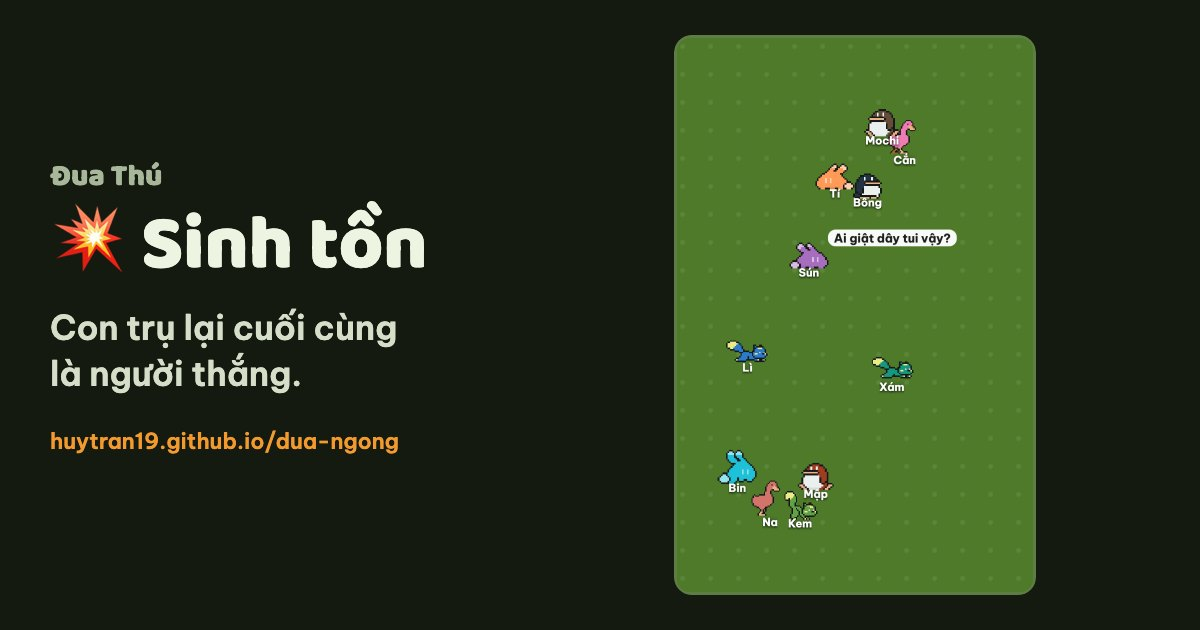
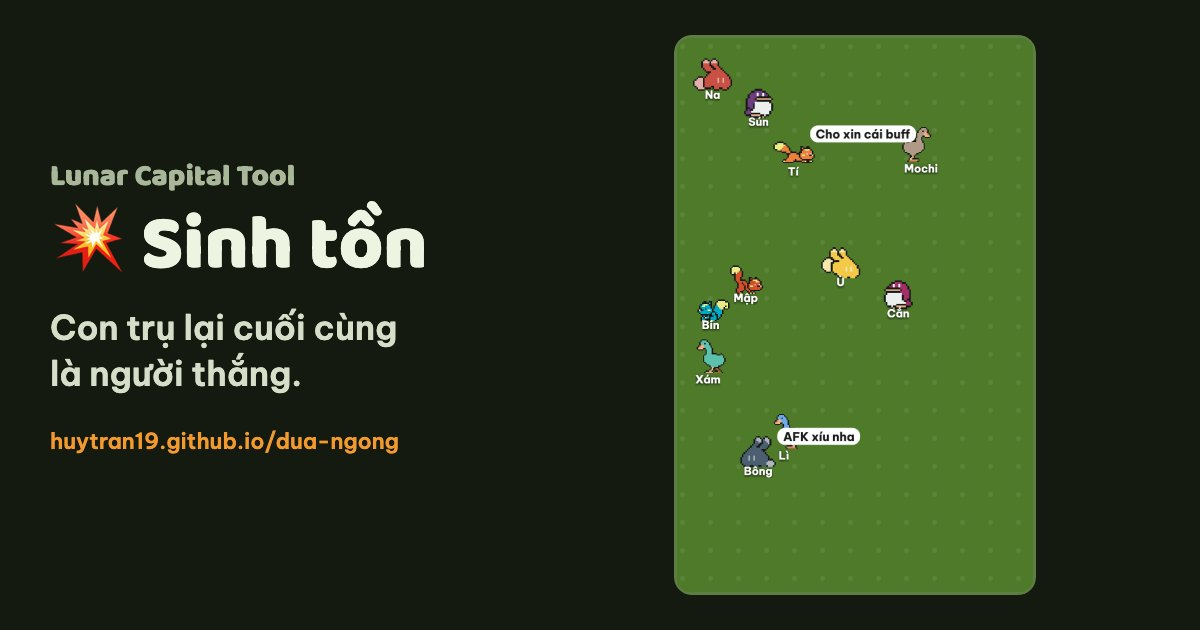
Đổi tên thành Lunar Capital Tool, Giveaway thành Đua Ngỗng, Tranh Pass thành Vòng quay may mắn

diff --git a/index.html b/index.html
@@ -3,10 +3,10 @@
 <head>
 <meta charset="utf-8">
 <meta name="viewport" content="width=device-width, initial-scale=1, viewport-fit=cover">
-<title>Đua Ngỗng</title>
-<meta name="description" content="Game bốc thăm cho guild: Giveaway, Chia team, Sinh tồn, Trứng nở, Tranh Pass. Mở là chơi, không cần cài.">
-<meta property="og:title" content="Đua Thú: bốc thăm cho guild">
-<meta property="og:description" content="Giveaway, Chia team, Sinh tồn, Trứng nở, Tranh Pass. Dán danh sách tên, bấm một nút là có kết quả.">
+<title>Lunar Capital Tool</title>
+<meta name="description" content="Tool bốc thăm của Lunar Capital: Đua Ngỗng, Vòng quay may mắn, Chia team, Sinh tồn, Trứng nở. Mở là chơi, không cần cài.">
+<meta property="og:title" content="Lunar Capital Tool: bốc thăm cho guild">
+<meta property="og:description" content="Đua Ngỗng, Vòng quay may mắn, Chia team, Sinh tồn, Trứng nở. Dán danh sách tên, bấm một nút là có kết quả.">
 <meta property="og:image" content="https://huytran19.github.io/dua-ngong/og/home.jpg">
 <meta property="og:url" content="https://huytran19.github.io/dua-ngong/">
 <meta name="twitter:card" content="summary_large_image">
@@ -92,7 +92,7 @@ select{font:inherit;font-size:15px;padding:9px 6px;border:2px solid var(--line);
 .crown{position:absolute;top:-8px;left:40%;font-size:14px;display:none;z-index:2}
 .goose.lead .crown{display:block}
 
-/* Giveaway track */
+/* Đua Ngỗng (mode give) */
 .mini{position:relative;height:22px;background:var(--card);border:2px solid var(--line);border-radius:999px}
 .mini i{position:absolute;top:50%;width:11px;height:11px;border-radius:50%;margin:-5.5px 0 0 -5.5px;border:1.5px solid #1b1b1b}
 .mini b{position:absolute;right:6px;top:50%;transform:translateY(-50%);font-size:13px}
@@ -131,7 +131,7 @@ select{font:inherit;font-size:15px;padding:9px 6px;border:2px solid var(--line);
 .team ol{margin:0;padding-left:20px;font-size:14px;line-height:1.6;word-break:break-word}
 .team ol:empty::after{content:"Chưa có ai";color:var(--muted);margin-left:-20px}
 
-/* Giveaway result */
+/* Màn kết quả */
 .winner{background:var(--card);border:3px solid var(--frame);border-radius:20px;padding:22px 18px 18px;text-align:center;display:flex;flex-direction:column;align-items:center;gap:6px}
 .winner .g{position:relative;width:160px;height:128px;animation:bounce 1s ease-in-out infinite alternate}
 .winner .g .spr{width:100%;height:100%}
@@ -151,7 +151,7 @@ select{font:inherit;font-size:15px;padding:9px 6px;border:2px solid var(--line);
 
 /* Mode picker */
 .modes{display:grid;grid-template-columns:repeat(3,1fr);gap:6px}
-.modes button{appearance:none;border:2px solid var(--line);background:var(--card);border-radius:14px;padding:9px 4px 8px;font-weight:700;font-size:13px;line-height:1.2;display:flex;flex-direction:column;align-items:center;gap:3px}
+.modes button{text-wrap:balance;appearance:none;border:2px solid var(--line);background:var(--card);border-radius:14px;padding:9px 4px 8px;font-weight:700;font-size:13px;line-height:1.2;display:flex;flex-direction:column;align-items:center;gap:3px}
 .modes button span{font-size:22px;line-height:1}
 .modes button[aria-pressed="true"]{background:var(--btn);color:var(--btn-ink);border-color:var(--btn)}
 .gate.bottom{top:auto;bottom:10px;border:5px solid #8B5A2B;border-top:0;border-radius:0 0 10px 10px}
@@ -253,7 +253,7 @@ textarea.flash{animation:taflash .5s ease-out}
 .top-left{display:flex;align-items:center;gap:10px;min-width:0}
 #backBtn{font-size:22px;font-weight:700;line-height:1}
 .in-game #logoGoose{display:none} /* có nút ← thì bỏ hình logo cho tên dài khỏi xuống dòng */
-#appTitle{overflow:hidden;text-overflow:ellipsis}
+#appTitle{overflow:hidden;text-overflow:ellipsis;font-size:clamp(16px,4.6vw,22px)}
 .hist-title{margin:0;font-family:"Baloo 2",sans-serif;font-weight:800;font-size:30px}
 .hist{display:flex;flex-direction:column;gap:8px}
 .hist-item{background:var(--card);border:1px solid var(--line);border-radius:14px;padding:10px 12px;display:flex;flex-direction:column;gap:3px}
@@ -269,17 +269,17 @@ textarea.flash{animation:taflash .5s ease-out}
 <main class="app">
   <div class="top">
     <div class="top-left"><button class="icon-btn" id="backBtn" aria-label="Quay lại" hidden>←</button>
-      <div class="logo"><span id="logoGoose"></span><span id="appTitle">Đua Ngỗng</span></div></div>
+      <div class="logo"><span id="logoGoose"></span><span id="appTitle">Lunar Capital Tool</span></div></div>
     <div class="top-btns"><button class="icon-btn" id="themeBtn" aria-label="Chuyển sang giao diện sáng">☀</button><button class="icon-btn" id="histBtn" aria-label="Lịch sử các ván">📜</button><button class="icon-btn" id="mute" aria-label="Tắt tiếng">🔊</button></div>
   </div>
 
   <section id="screen-setup" class="stack">
     <div class="modes" role="group" aria-label="Chế độ">
-      <button data-mode="give"><span>🎁</span>Giveaway</button>
+      <button data-mode="give"><span>🎁</span>Đua Ngỗng</button>
+      <button data-mode="pass"><span>🎟</span>Vòng quay may mắn</button>
       <button data-mode="team"><span>⚔</span>Chia team</button>
       <button data-mode="survive"><span>💥</span>Sinh tồn</button>
       <button data-mode="egg"><span>🥚</span>Trứng nở</button>
-      <button data-mode="pass"><span>🎟</span>Tranh Pass</button>
     </div>
     <h1 id="headline"></h1>
     <p class="lede" id="lede"></p>
@@ -635,7 +635,7 @@ textarea.flash{animation:taflash .5s ease-out}
   }
 
   /* ---------- Setup ---------- */
-  // Tên gọi thay theo đàn thú đang chọn: Đua Ngỗng, Đua Thỏ, ... hoặc Đua Thú khi trộn
+  // Tên gọi thay theo đàn thú đang chọn (ngỗng, thỏ, ... hoặc thú khi trộn), dùng trong lời dẫn và nút
   const NOUN={goose:"ngỗng",bunny:"thỏ",squirrel:"sóc",penguin:"cánh cụt",mix:"thú"};
   const noun=()=>NOUN[herd]||"thú";
   const Noun=()=>noun().split(" ").map(w=>w[0].toUpperCase()+w.slice(1)).join(" ");
@@ -751,8 +751,7 @@ textarea.flash{animation:taflash .5s ease-out}
     else put(herd);
   }
   function applyText(){
-    const info=MODE_INFO[mode], title=`Đua ${Noun()}`;
-    $("appTitle").textContent=title; document.title=title;
+    const info=MODE_INFO[mode];
     $("headline").textContent=info.h(); $("lede").textContent=info.lede(); $("go").textContent=info.go();
     $("numLabel").textContent=`Hiện số trên ${noun()}`;
   }
@@ -881,7 +880,7 @@ textarea.flash{animation:taflash .5s ease-out}
 
   /* ---------- Lịch sử các ván ---------- */
   const HIST_KEY="dua-ngong-history", HIST_MAX=100;
-  const MODE_LABEL={give:"🎁 Giveaway",team:"⚔ Chia team",survive:"💥 Sinh tồn",egg:"🥚 Trứng nở",pass:"🎟 Tranh Pass"};
+  const MODE_LABEL={give:"🎁 Đua Ngỗng",team:"⚔ Chia team",survive:"💥 Sinh tồn",egg:"🥚 Trứng nở",pass:"🎟 Vòng quay may mắn"};
   function loadHistory(){try{const h=JSON.parse(store.get(HIST_KEY,"[]"));return Array.isArray(h)?h:[];}catch(e){return [];}}
   function addHistory(e){const h=loadHistory();h.unshift({t:Date.now(),...e});store.set(HIST_KEY,JSON.stringify(h.slice(0,HIST_MAX)));}
   const fmtTime=t=>{const d=new Date(t),p=x=>String(x).padStart(2,"0");return `${p(d.getHours())}:${p(d.getMinutes())} ${p(d.getDate())}/${p(d.getMonth()+1)}/${d.getFullYear()}`;};
@@ -952,7 +951,7 @@ textarea.flash{animation:taflash .5s ease-out}
   });
   const rankCopy=(title,order)=>title+"\n\nThứ tự:\n"+order.map((r,i)=>`${i+1}. ${r.name}`).join("\n");
 
-  /* ---------- Mode: Giveaway ---------- */
+  /* ---------- Mode: Đua Ngỗng (give) ---------- */
   let G=null;
   function startGive(racers){
     const my=++session; show(scr.race);
@@ -1412,7 +1411,7 @@ textarea.flash{animation:taflash .5s ease-out}
     }
   }
 
-  /* ---------- Mode: Tranh Pass ---------- */
+  /* ---------- Mode: Vòng quay may mắn (pass) ---------- */
   // Lệnh bài vẽ riêng (hình gỗ có móc treo, huy hiệu vàng đơn giản)
   const TOKEN_SVG=`<svg viewBox="0 0 100 140" aria-hidden="true">
     <circle cx="50" cy="10" r="7" fill="none" stroke="#6B4220" stroke-width="4"/>

diff --git a/giveaway/index.html b/giveaway/index.html
@@ -2,17 +2,17 @@
 <html lang="vi">
 <head>
 <meta charset="utf-8">
-<title>🎁 Giveaway · Đua Thú</title>
+<title>🎁 Đua Ngỗng · Lunar Capital Tool</title>
 <!-- Link ngắn cho từng mode: có thẻ xem trước riêng khi dán vào Discord, rồi chuyển vào game -->
 <meta name="description" content="Mỗi người một con ngỗng, con nào về đích trước thì người đó trúng. Camera bám con dẫn đầu tới vạch đích.">
-<meta property="og:title" content="🎁 Giveaway · Đua Thú">
+<meta property="og:title" content="🎁 Đua Ngỗng · Lunar Capital Tool">
 <meta property="og:description" content="Mỗi người một con ngỗng, con nào về đích trước thì người đó trúng. Camera bám con dẫn đầu tới vạch đích.">
 <meta property="og:image" content="https://huytran19.github.io/dua-ngong/og/give.jpg">
 <meta property="og:url" content="https://huytran19.github.io/dua-ngong/giveaway/">
 <meta name="twitter:card" content="summary_large_image">
-<meta name="theme-color" content="#8CC152">
+<meta name="theme-color" content="#141A10">
 <meta http-equiv="refresh" content="0;url=../?mode=give">
 <script>location.replace("../?mode=give"+location.hash);</script>
 </head>
-<body><a href="../?mode=give">Vào 🎁 Giveaway</a></body>
+<body><a href="../?mode=give">Vào 🎁 Đua Ngỗng</a></body>
 </html>

diff --git a/chia-team/index.html b/chia-team/index.html
@@ -2,15 +2,15 @@
 <html lang="vi">
 <head>
 <meta charset="utf-8">
-<title>⚔ Chia team · Đua Thú</title>
+<title>⚔ Chia team · Lunar Capital Tool</title>
 <!-- Link ngắn cho từng mode: có thẻ xem trước riêng khi dán vào Discord, rồi chuyển vào game -->
 <meta name="description" content="Thả cả đàn, tự chạy vào chuồng chia 2, 3 hoặc 4 đội đều nhau. Bắt được cặp dính nhau hoặc cấm chung đội.">
-<meta property="og:title" content="⚔ Chia team · Đua Thú">
+<meta property="og:title" content="⚔ Chia team · Lunar Capital Tool">
 <meta property="og:description" content="Thả cả đàn, tự chạy vào chuồng chia 2, 3 hoặc 4 đội đều nhau. Bắt được cặp dính nhau hoặc cấm chung đội.">
 <meta property="og:image" content="https://huytran19.github.io/dua-ngong/og/team.jpg">
 <meta property="og:url" content="https://huytran19.github.io/dua-ngong/chia-team/">
 <meta name="twitter:card" content="summary_large_image">
-<meta name="theme-color" content="#8CC152">
+<meta name="theme-color" content="#141A10">
 <meta http-equiv="refresh" content="0;url=../?mode=team">
 <script>location.replace("../?mode=team"+location.hash);</script>
 </head>

diff --git a/sinh-ton/index.html b/sinh-ton/index.html
@@ -2,15 +2,15 @@
 <html lang="vi">
 <head>
 <meta charset="utf-8">
-<title>💥 Sinh tồn · Đua Thú</title>
+<title>💥 Sinh tồn · Lunar Capital Tool</title>
 <!-- Link ngắn cho từng mode: có thẻ xem trước riêng khi dán vào Discord, rồi chuyển vào game -->
 <meta name="description" content="Cả đàn chung một sân, chốc chốc lại có một con bị cắn văng ra. Con trụ lại cuối cùng thắng.">
-<meta property="og:title" content="💥 Sinh tồn · Đua Thú">
+<meta property="og:title" content="💥 Sinh tồn · Lunar Capital Tool">
 <meta property="og:description" content="Cả đàn chung một sân, chốc chốc lại có một con bị cắn văng ra. Con trụ lại cuối cùng thắng.">
 <meta property="og:image" content="https://huytran19.github.io/dua-ngong/og/survive.jpg">
 <meta property="og:url" content="https://huytran19.github.io/dua-ngong/sinh-ton/">
 <meta name="twitter:card" content="summary_large_image">
-<meta name="theme-color" content="#8CC152">
+<meta name="theme-color" content="#141A10">
 <meta http-equiv="refresh" content="0;url=../?mode=survive">
 <script>location.replace("../?mode=survive"+location.hash);</script>
 </head>

diff --git a/trung-no/index.html b/trung-no/index.html
@@ -2,15 +2,15 @@
 <html lang="vi">
 <head>
 <meta charset="utf-8">
-<title>🥚 Trứng nở · Đua Thú</title>
+<title>🥚 Trứng nở · Lunar Capital Tool</title>
 <!-- Link ngắn cho từng mode: có thẻ xem trước riêng khi dán vào Discord, rồi chuyển vào game -->
 <meta name="description" content="Mỗi người một quả trứng, ngỗng mẹ đi ấp lòng vòng. Trứng ai nở trước, người đó trúng.">
-<meta property="og:title" content="🥚 Trứng nở · Đua Thú">
+<meta property="og:title" content="🥚 Trứng nở · Lunar Capital Tool">
 <meta property="og:description" content="Mỗi người một quả trứng, ngỗng mẹ đi ấp lòng vòng. Trứng ai nở trước, người đó trúng.">
 <meta property="og:image" content="https://huytran19.github.io/dua-ngong/og/egg.jpg">
 <meta property="og:url" content="https://huytran19.github.io/dua-ngong/trung-no/">
 <meta name="twitter:card" content="summary_large_image">
-<meta name="theme-color" content="#8CC152">
+<meta name="theme-color" content="#141A10">
 <meta http-equiv="refresh" content="0;url=../?mode=egg">
 <script>location.replace("../?mode=egg"+location.hash);</script>
 </head>

diff --git a/vong-quay/index.html b/vong-quay/index.html
@@ -4,7 +4,6 @@
 <meta charset="utf-8">
 <title>🎟 Vòng quay may mắn · Lunar Capital Tool</title>
 <!-- Link ngắn cho từng mode: có thẻ xem trước riêng khi dán vào Discord, rồi chuyển vào game -->
-<!-- Link cũ, giữ lại cho các link đã gửi; link chính là /vong-quay/ -->
 <meta name="description" content="Nhấn giữ lệnh bài lấy đà rồi thả. Con thú chạy vòng vòng, chậm dần và dừng trước người ẵm giải.">
 <meta property="og:title" content="🎟 Vòng quay may mắn · Lunar Capital Tool">
 <meta property="og:description" content="Nhấn giữ lệnh bài lấy đà rồi thả. Con thú chạy vòng vòng, chậm dần và dừng trước người ẵm giải.">
